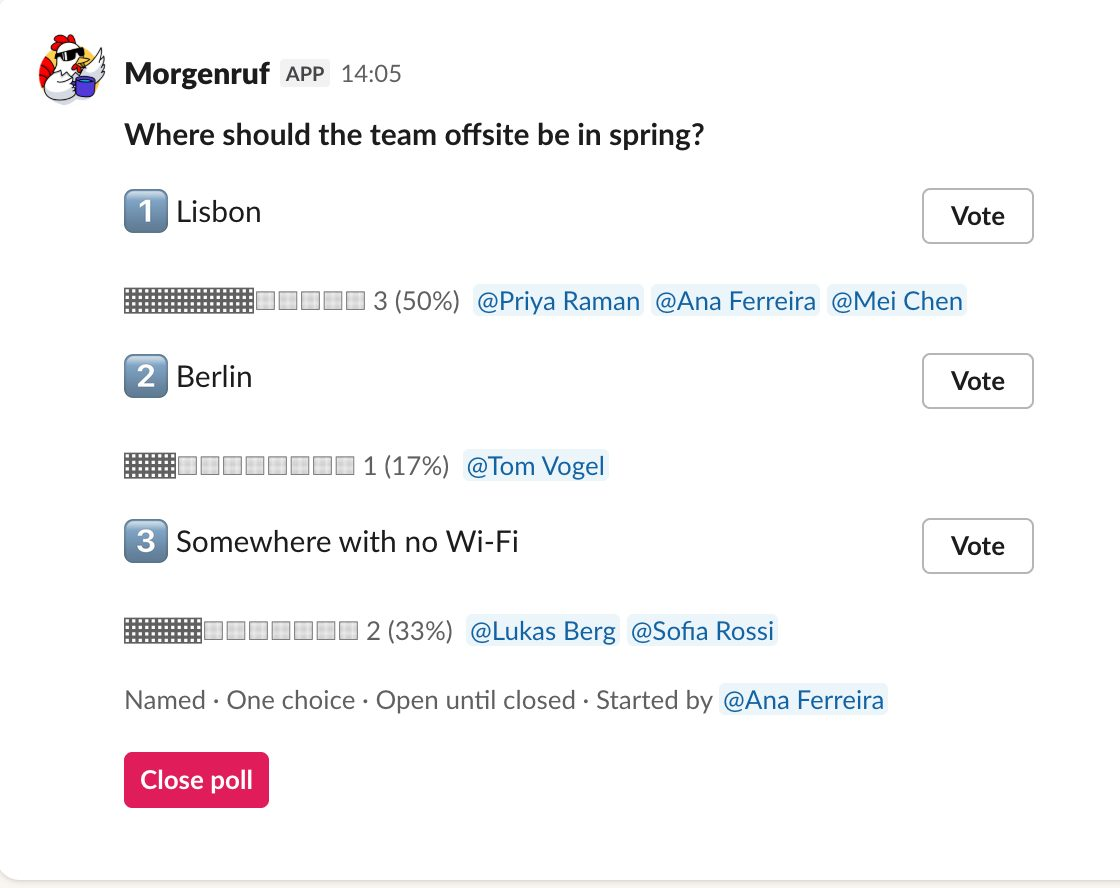
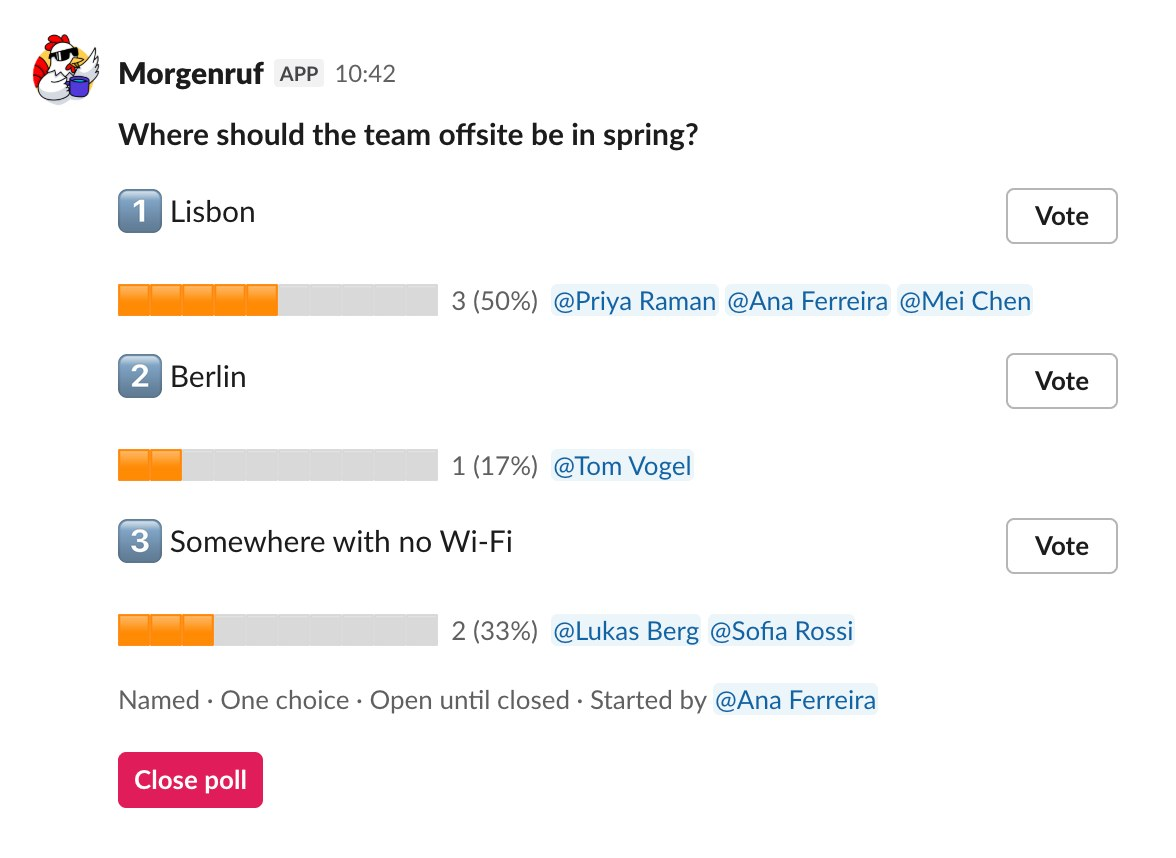
Show the new emoji poll bars in the poll screenshot

diff --git a/changelog/index.html b/changelog/index.html
@@ -3,17 +3,17 @@
 <head>
 <meta charset="UTF-8"/>
 <meta name="viewport" content="width=device-width, initial-scale=1"/>
-<title>Changelog: every Morgenruf release, currently 1.9.27</title>
+<title>Changelog: every Morgenruf release, currently 1.9.28</title>
 <meta name="description" content="Every Morgenruf release and what changed in it: new modules, fixes and the occasional removal, generated straight from the repository's own changelog file."/>
 <meta name="robots" content="index, follow"/>
 <link rel="canonical" href="https://morgenruf.dev/changelog/"/>
 <meta property="og:type" content="website"/>
 <meta property="og:url" content="https://morgenruf.dev/changelog/"/>
-<meta property="og:title" content="Changelog: every Morgenruf release, currently 1.9.27"/>
+<meta property="og:title" content="Changelog: every Morgenruf release, currently 1.9.28"/>
 <meta property="og:description" content="Every Morgenruf release and what changed in it: new modules, fixes and the occasional removal, generated straight from the repository's own changelog file."/>
 <meta property="og:image" content="https://morgenruf.dev/og-image.png?v=bf05fd1f1a"/>
 <meta name="twitter:card" content="summary_large_image"/>
-<meta name="twitter:title" content="Changelog: every Morgenruf release, currently 1.9.27"/>
+<meta name="twitter:title" content="Changelog: every Morgenruf release, currently 1.9.28"/>
 <meta name="twitter:description" content="Every Morgenruf release and what changed in it: new modules, fixes and the occasional removal, generated straight from the repository's own changelog file."/>
 <meta name="twitter:image" content="https://morgenruf.dev/og-image.png?v=bf05fd1f1a"/>
 <meta name="theme-color" content="#12131f"/>
@@ -46,13 +46,20 @@
 <header class="page-head"><div class="wrap">
   <h1>Changelog</h1>
   <p class="lede">Every release, what changed in it, and why. Currently on
-  <strong>1.9.27</strong>, with 57 releases documented.</p>
+  <strong>1.9.28</strong>, with 58 releases documented.</p>
 </div></header>
 <section class="section"><div class="wrap">
   <div class="note" style="margin-bottom:34px"><p>Every release is tagged, published with notes, and
   built from the same commit that is on <a href="https://github.com/morgenruf/morgenruf">GitHub</a>. Docker images carry the
   revision they were built from, so you can check what you are running matches what you read here.</p></div>
   <article class="release">
+  <div class="release-meta">
+    <h2 id="v1.9.28">1.9.28</h2>
+    <time datetime="2026-11-11">2026-11-11</time>
+    <a href="https://github.com/morgenruf/morgenruf/releases/tag/v1.9.28">Release notes ↗</a>
+  </div>
+  <div class="release-body"><h3 id="v1.9.28-changed">Changed</h3><ul><li><strong>Poll result bars are emoji squares.</strong> The <code>▓░</code> bars came out grainy and uneven in Slack, worst on mobile and in dark mode. They are now orange and white squares, which render as even cells everywhere (#299).</li><li>README screenshots replaced with current ones, and kudos, insights, celebrations and polls each get a section (#298).</li></ul><h3 id="v1.9.28-fixed">Fixed</h3><ul><li><strong>The dashboard fetched the module list twice on every load</strong>, and the member list twice on pages that read it from a component, such as Automation with a direct-message rule. The startup shell and the dashboard each mount the sidebar, and the first request was cancelled and resent. It now carries through to the second mount (#299).</li></ul></div>
+</article><article class="release">
   <div class="release-meta">
     <h2 id="v1.9.27">1.9.27</h2>
     <time datetime="2026-11-01">2026-11-01</time>

diff --git a/index.html b/index.html
@@ -325,7 +325,7 @@
 order follows what people ask for, and asking moves it.</p>
 <ol class="rm-spine rm-past">
 <li class="rm-stage"><span class="rm-tag">Yesterday</span><small>Shipped and running</small></li>
-<li class="rm-row rm-left"><span class="rm-node"><svg class="rm-ic" aria-hidden="true"><use href="#rm-vote"/></svg></span><div class="rm-card"><picture><source srcset="/screenshots/poll-slack.webp?v=910794fa99" type="image/webp"><img class="rm-shot" src="/screenshots/poll-slack.jpg?v=841a7794cf" alt="A poll in Slack with vote buttons, result bars and the names of who voted" width="560" height="228" loading="lazy"></picture><h3>Polls <span class="rm-ver">1.9.14</span></h3><p>Ask the channel with <code>/morgenruf poll</code>. Vote with buttons, watch the bars move, or keep results hidden until close. Anonymous votes cannot be tied to anyone once the poll closes, not even by us.</p></div></li>
+<li class="rm-row rm-left"><span class="rm-node"><svg class="rm-ic" aria-hidden="true"><use href="#rm-vote"/></svg></span><div class="rm-card"><picture><source srcset="/screenshots/poll-slack.webp?v=386c57663b" type="image/webp"><img class="rm-shot" src="/screenshots/poll-slack.jpg?v=cc1b7a86a4" alt="A poll in Slack with vote buttons, result bars and the names of who voted" width="560" height="228" loading="lazy"></picture><h3>Polls <span class="rm-ver">1.9.14</span></h3><p>Ask the channel with <code>/morgenruf poll</code>. Vote with buttons, watch the bars move, or keep results hidden until close. Anonymous votes cannot be tied to anyone once the poll closes, not even by us.</p></div></li>
 <li class="rm-row rm-right"><span class="rm-node"><svg class="rm-ic" aria-hidden="true"><use href="#rm-heart-pulse"/></svg></span><div class="rm-card"><h3>Anonymous pulse and eNPS <span class="rm-ver">1.9.14</span></h3><p>A two-tap weekly check-in by DM, with eNPS every fourth week. Only counts are kept, who answered is deleted when it closes, and results show as team figures from 5 answers. Admins included, nobody sees what one person said.</p></div></li>
 <li class="rm-row rm-left"><span class="rm-node"><svg class="rm-ic" aria-hidden="true"><use href="#rm-cake"/></svg></span><div class="rm-card"><h3>Celebrations <span class="rm-ver">1.9.0</span></h3><p>Birthdays and work anniversaries in a channel, moved to the last working day before a weekend or company holiday. <a href="/celebrations/">How it works</a></p></div></li>
 <li class="rm-row rm-right"><span class="rm-node"><svg class="rm-ic" aria-hidden="true"><use href="#rm-id-card"/></svg></span><div class="rm-card"><h3>Member profile <span class="rm-ver">1.9.0</span></h3><p>Birthday (day and month, never the year), start date, role and location, filled in from Slack or the dashboard.</p></div></li>
@@ -477,7 +477,7 @@ order follows what people ask for, and asking moves it.</p>
 "description":"Open-source Slack app for async standups, random coffee chats and peer recognition. Free on the hosted instance or self-hosted. MIT licensed, no per-seat pricing.",
 "offers":{"@type":"Offer","price":"0","priceCurrency":"USD"},
 "license":"https://opensource.org/licenses/MIT","isAccessibleForFree":true,
-"softwareVersion":"1.9.27",
+"softwareVersion":"1.9.28",
 "downloadUrl":"https://github.com/morgenruf/morgenruf/releases",
 "sameAs":["https://github.com/morgenruf/morgenruf","https://hub.docker.com/r/morgenruf/morgenruf","https://www.linkedin.com/company/morgenruf","https://x.com/morgenruf_dev"],
 "publisher":{"@id":"https://morgenruf.dev/#organization"},

diff --git a/self-hosted-standup-bot/index.html b/self-hosted-standup-bot/index.html
@@ -53,7 +53,7 @@
 <p class="cta-note">Add to Slack installs Morgenruf on the free hosted instance CloudDrove runs. Self-hosting is the same MIT code.</p></div></header>
 <section class="section define"><div class="wrap"><p class="lede">Morgenruf is a self-hostable Slack standup bot: a backend, a small frontend and a Postgres database, deployed with Docker Compose or Helm, with every answer stored in a database you control. It is MIT licensed and free, and the same code also runs as a free hosted instance for teams that would rather not run it.</p><p class="reviewed">Last reviewed September 26, 2026</p></div></section>
 <section class="section"><div class="wrap"><div class="guide"><nav class="toc" aria-label="On this page"><strong>On this page</strong><div class="toc-links"><a href="#why-teams-self-host-this">Why teams self-host</a><a href="#what-running-it-involves">What running it involves</a><a href="#what-leaves-your-network">What leaves your network</a><a href="#what-it-costs">What it costs</a><a href="#where-it-runs">Where it runs</a><a href="#the-part-people-underestimate">The underestimated part</a></div></nav><div class="prose"><div class="note"><p><strong>MIT licence</strong> &middot; latest release
-<a href="https://github.com/morgenruf/morgenruf/releases/tag/v1.9.27">1.9.27</a>, 2026-11-01 &middot;
+<a href="https://github.com/morgenruf/morgenruf/releases/tag/v1.9.28">1.9.28</a>, 2026-11-11 &middot;
 <a href="https://charts.morgenruf.dev">Helm chart</a> &middot; <a href="/changelog/">every release</a></p>
 <pre><code>git clone https://github.com/morgenruf/morgenruf.git
 cd morgenruf/app &amp;&amp; cp .env.example .env   # add your Slack app values

diff --git a/open-source-standup-bot/index.html b/open-source-standup-bot/index.html
@@ -53,7 +53,7 @@
 <p class="cta-note">Add to Slack installs Morgenruf on the free hosted instance CloudDrove runs. Self-hosting is the same MIT code.</p></div></header>
 <section class="section define"><div class="wrap"><p class="lede">Morgenruf is an open-source Slack standup bot under the MIT licence: one public repository, no open-core split and no paid tier. It asks standup questions by DM and posts one summary, and also runs coffee chats and kudos. Use the free hosted instance, or run the same code yourself.</p><p class="reviewed">Last reviewed September 26, 2026</p></div></section>
 <section class="section"><div class="wrap"><div class="guide"><nav class="toc" aria-label="On this page"><strong>On this page</strong><div class="toc-links"><a href="#what-open-source-buys-you">What the licence says</a><a href="#the-honest-trade">The honest trade</a><a href="#what-morgenruf-includes">What is in the box</a><a href="#who-maintains-it">Who maintains it</a><a href="#other-options">Other options</a><a href="#getting-started">Getting started</a></div></nav><div class="prose"><div class="note"><p><strong>MIT licence</strong> &middot; latest release
-<a href="https://github.com/morgenruf/morgenruf/releases/tag/v1.9.27">1.9.27</a>, 2026-11-01 &middot;
+<a href="https://github.com/morgenruf/morgenruf/releases/tag/v1.9.28">1.9.28</a>, 2026-11-11 &middot;
 <a href="https://charts.morgenruf.dev">Helm chart</a> &middot; <a href="/changelog/">every release</a></p>
 <pre><code>git clone https://github.com/morgenruf/morgenruf.git
 cd morgenruf/app &amp;&amp; cp .env.example .env   # add your Slack app values
